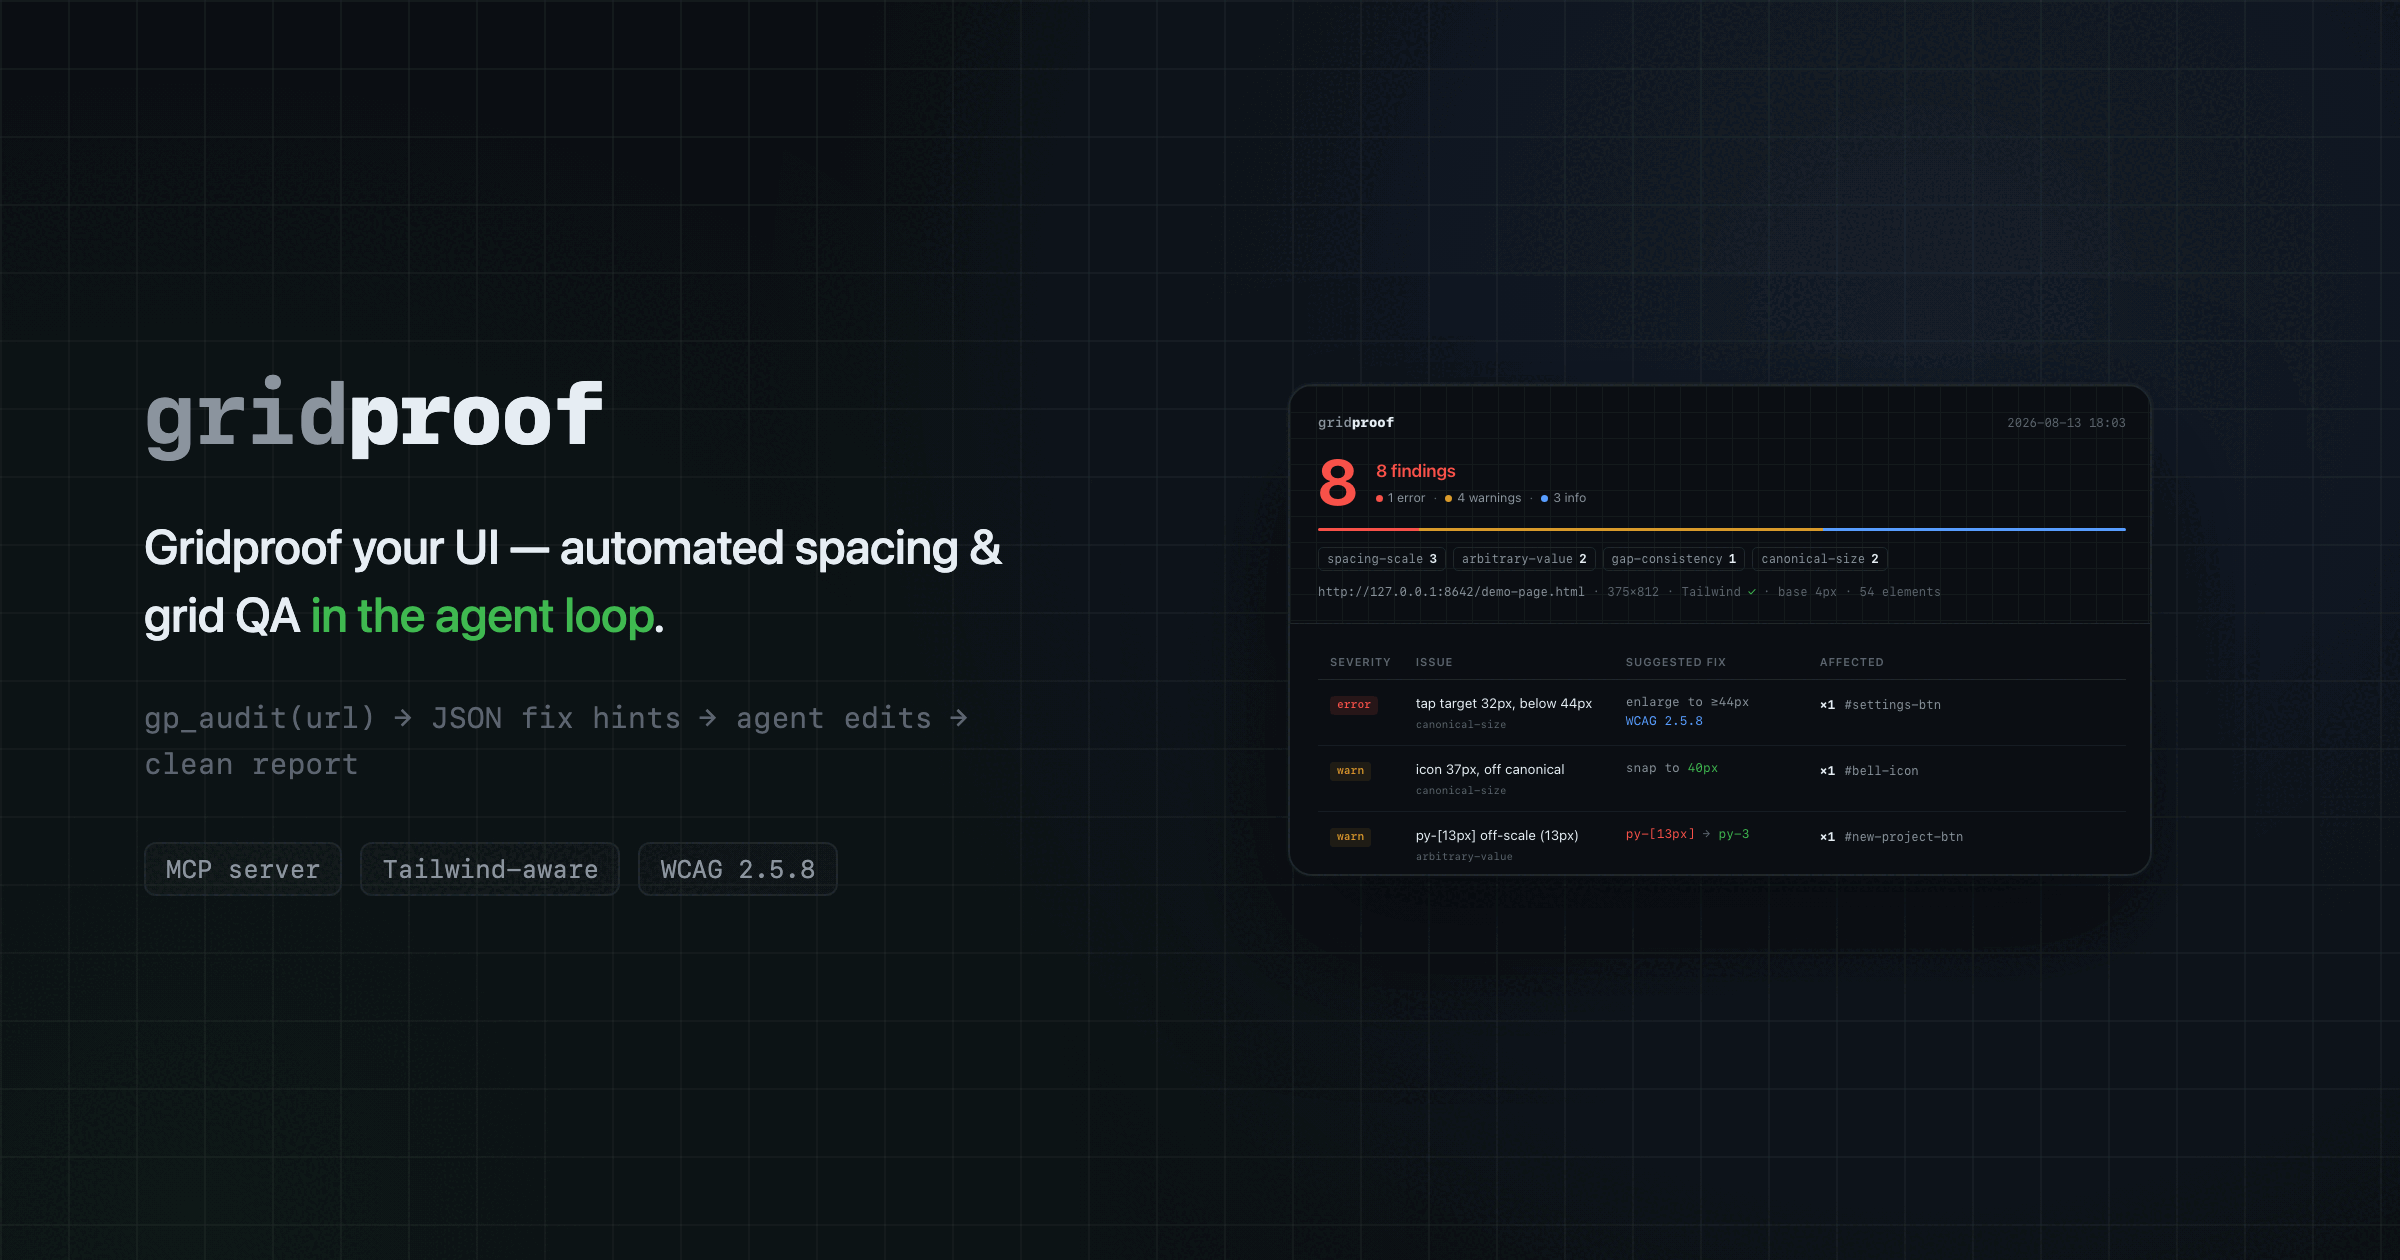
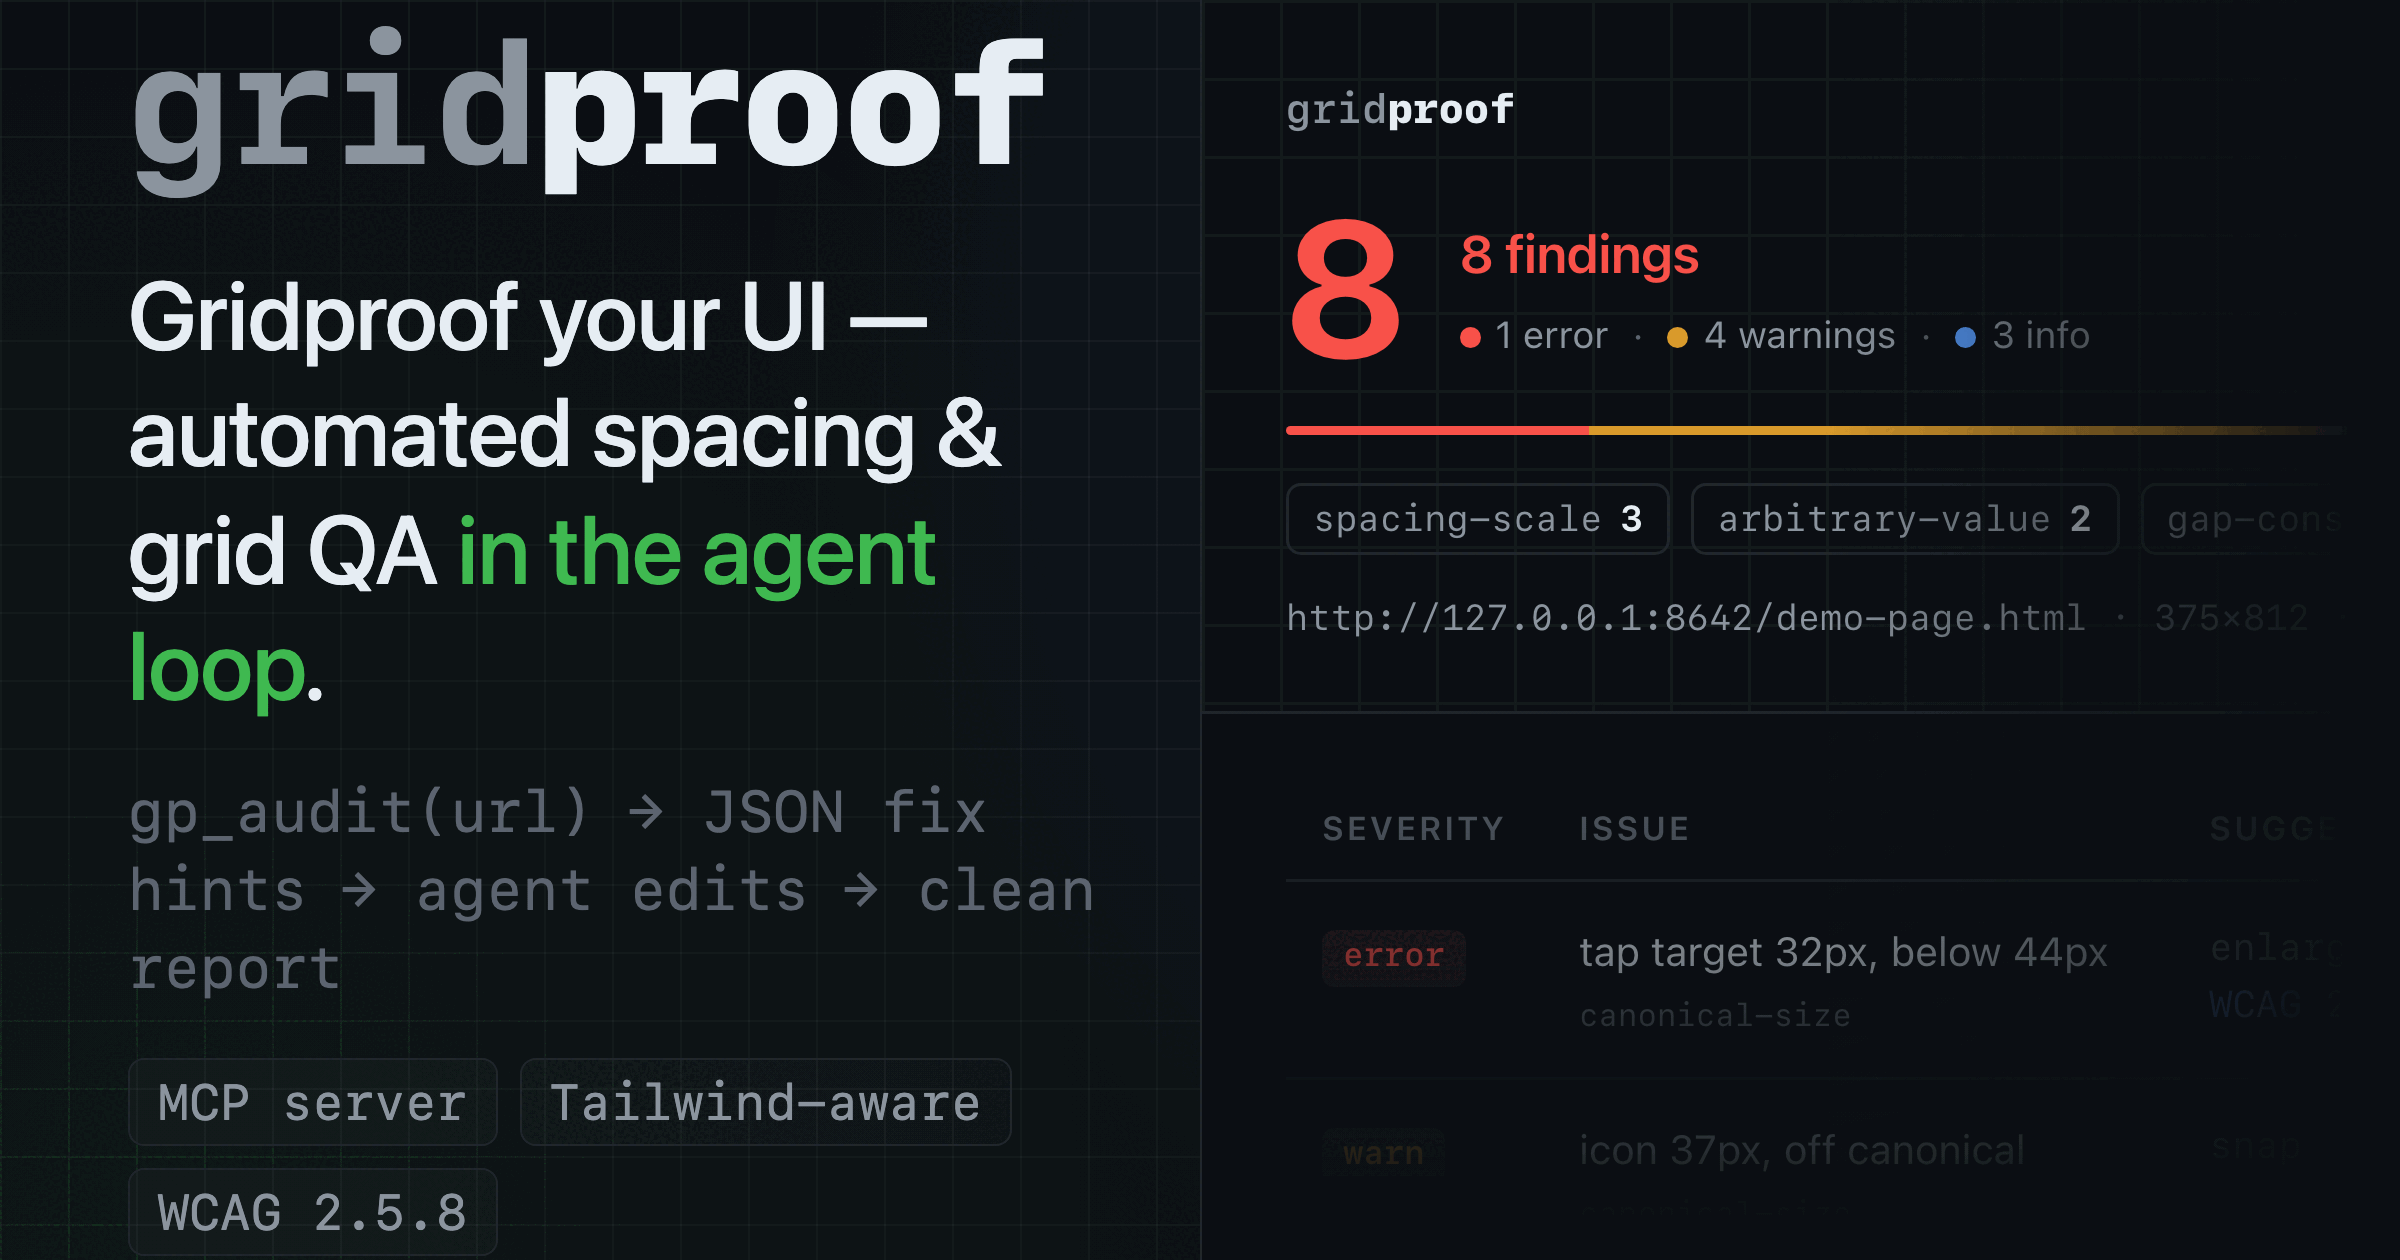
Social card: 3x bigger interface crop, 2x left-column text
The embedded report preview now renders at 1.5x scale (3x the prior 0.5x)
and fills the card's right half flush to the edges, showing its top-left
corner with a soft fade on the right/bottom crop edges instead of a hard
cut. Left-column text (logo, tagline, sub, chips) doubled to balance the
now-larger interface panel.

diff --git a/demo/social-card.html b/demo/social-card.html
@@ -27,26 +27,36 @@ html, body { width:1200px; height:630px; overflow:hidden; background:var(--bg); 
 }
 
 .content {
-  position:relative; z-index:1; display:flex; align-items:center;
-  height:100%; padding:0 72px; gap:60px;
+  position:relative; z-index:1; display:flex;
+  height:100%;
 }
 
-.left { flex:0 0 auto; max-width:460px; }
-.logo { font-family:var(--mono); font-weight:700; font-size:42px; letter-spacing:-0.01em; color:var(--muted); margin-bottom:24px; }
+.left { flex:0 0 600px; display:flex; flex-direction:column; justify-content:center; padding:0 40px 0 64px; }
+.logo { font-family:var(--mono); font-weight:700; font-size:84px; letter-spacing:-0.01em; color:var(--muted); margin-bottom:26px; }
 .logo b { color:var(--text); }
-.tagline { font-size:24px; line-height:1.44; color:var(--text); font-weight:500; letter-spacing:-0.01em; margin-bottom:22px; }
+.tagline { font-size:48px; line-height:1.22; color:var(--text); font-weight:500; letter-spacing:-0.01em; margin-bottom:24px; }
 .tagline .hi { color:var(--ok); }
-.sub { font-family:var(--mono); font-size:14.5px; color:var(--faint); line-height:1.6; }
-.chipbar { display:flex; flex-wrap:wrap; gap:9px; margin-top:28px; }
-.chip { font-family:var(--mono); font-size:12.5px; color:var(--muted); border:1px solid var(--line); border-radius:6px; padding:5px 10px; background:rgba(255,255,255,0.015); }
+.sub { font-family:var(--mono); font-size:29px; color:var(--faint); line-height:1.35; }
+.chipbar { display:flex; flex-wrap:wrap; gap:11px; margin-top:26px; }
+.chip { font-family:var(--mono); font-size:25px; color:var(--muted); border:1px solid var(--line); border-radius:8px; padding:6px 14px; background:rgba(255,255,255,0.015); }
 
-.right { flex:1 1 auto; display:flex; justify-content:center; align-items:center; }
-.frame {
-  width:432px; height:246px; border-radius:12px; overflow:hidden;
-  border:1px solid var(--line); background:var(--panel);
-  box-shadow: 0 30px 70px rgba(0,0,0,0.55), 0 0 0 1px rgba(255,255,255,0.02);
+/* Right half: the report interface itself, rendered 3x larger than the prior
+   0.5 scale (=1.5) and cropped to its top-left corner — the panel is flush to
+   the card's right/top/bottom edges, so only that corner is visible. */
+.right {
+  flex:0 0 600px; position:relative; overflow:hidden;
+  border-left:1px solid var(--line); background:var(--panel);
 }
-.frame iframe { width:864px; height:900px; border:0; transform:scale(0.5); transform-origin:top left; pointer-events:none; }
+.right::after {
+  content:""; position:absolute; inset:0; pointer-events:none;
+  background:
+    linear-gradient(90deg, transparent 52%, var(--bg) 96%),
+    linear-gradient(180deg, transparent 55%, var(--bg) 97%);
+}
+.right iframe {
+  position:absolute; top:0; left:0; width:864px; height:900px; border:0;
+  transform:scale(1.5); transform-origin:top left; pointer-events:none;
+}
 </style>
 </head>
 <body>
@@ -63,7 +73,7 @@ html, body { width:1200px; height:630px; overflow:hidden; background:var(--bg); 
         </div>
       </div>
       <div class="right">
-        <div class="frame"><iframe src="demo-report-mobile.html" scrolling="no"></iframe></div>
+        <iframe src="demo-report-mobile.html" scrolling="no"></iframe>
       </div>
     </div>
   </div>
